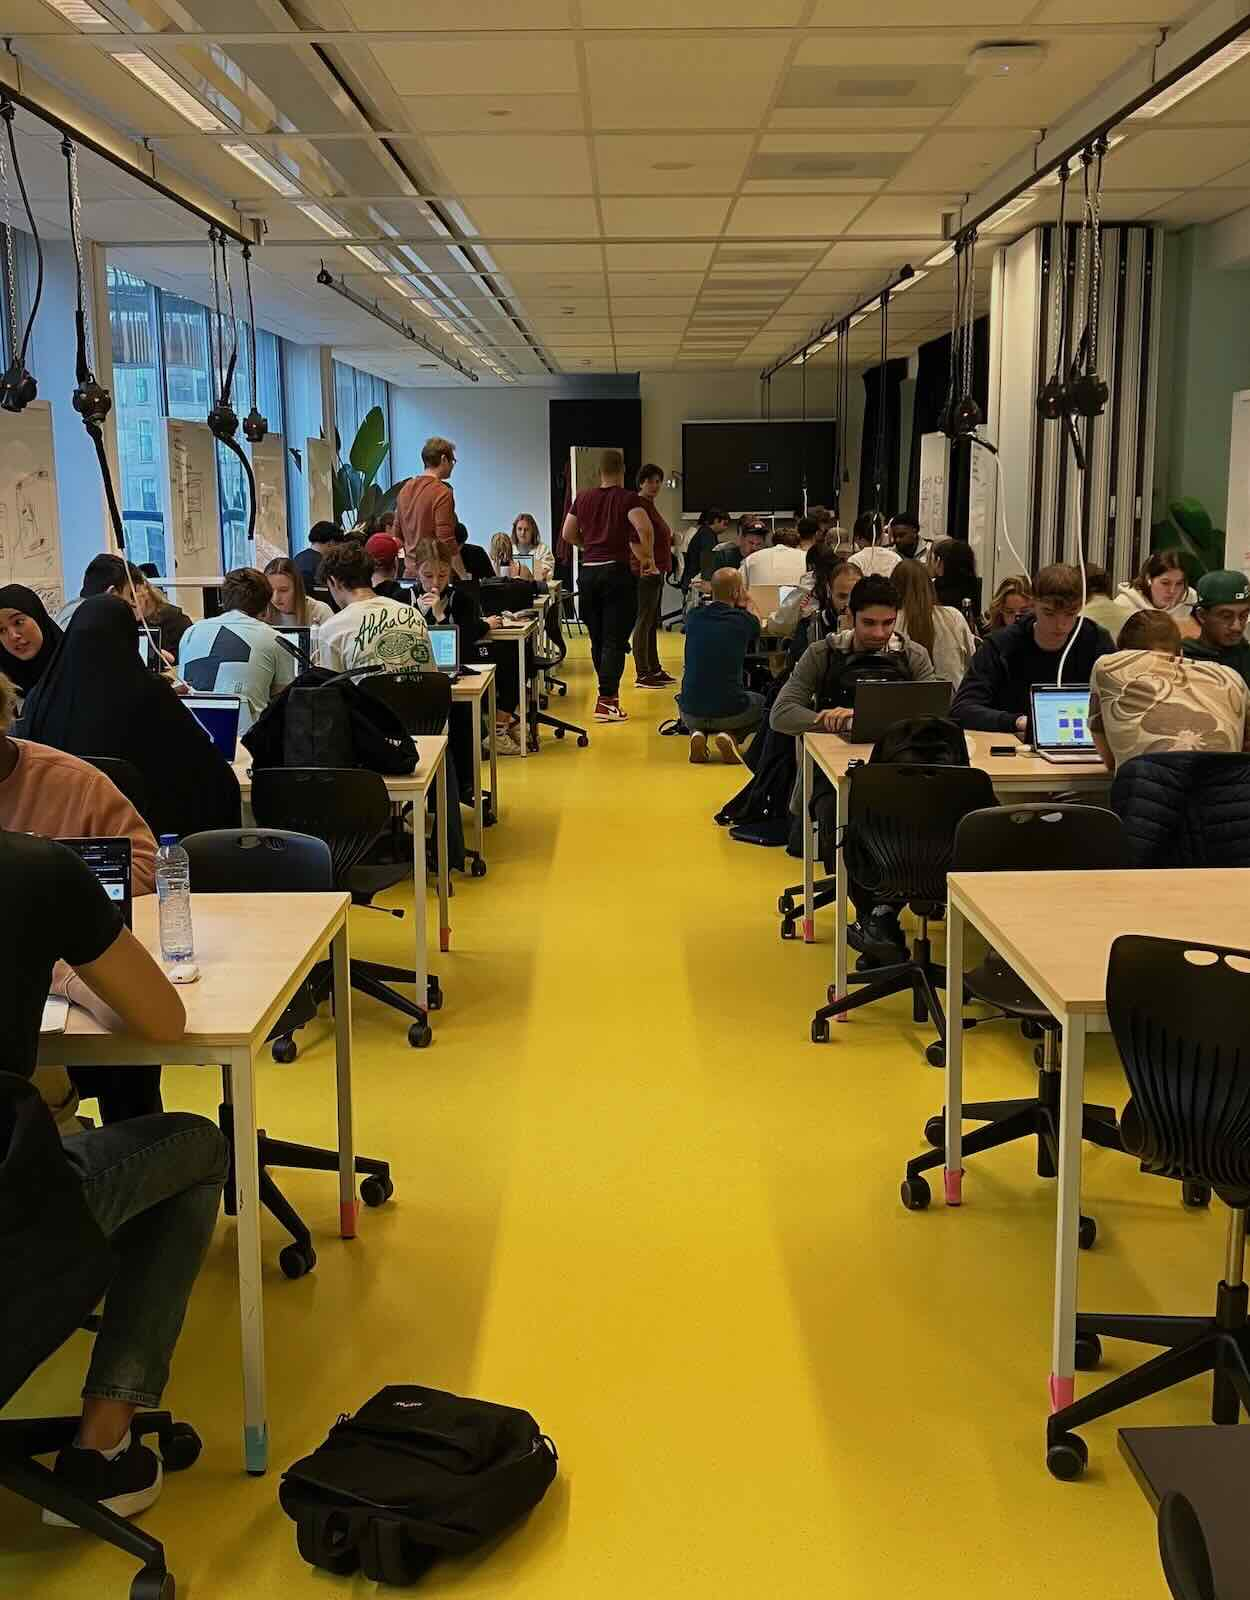
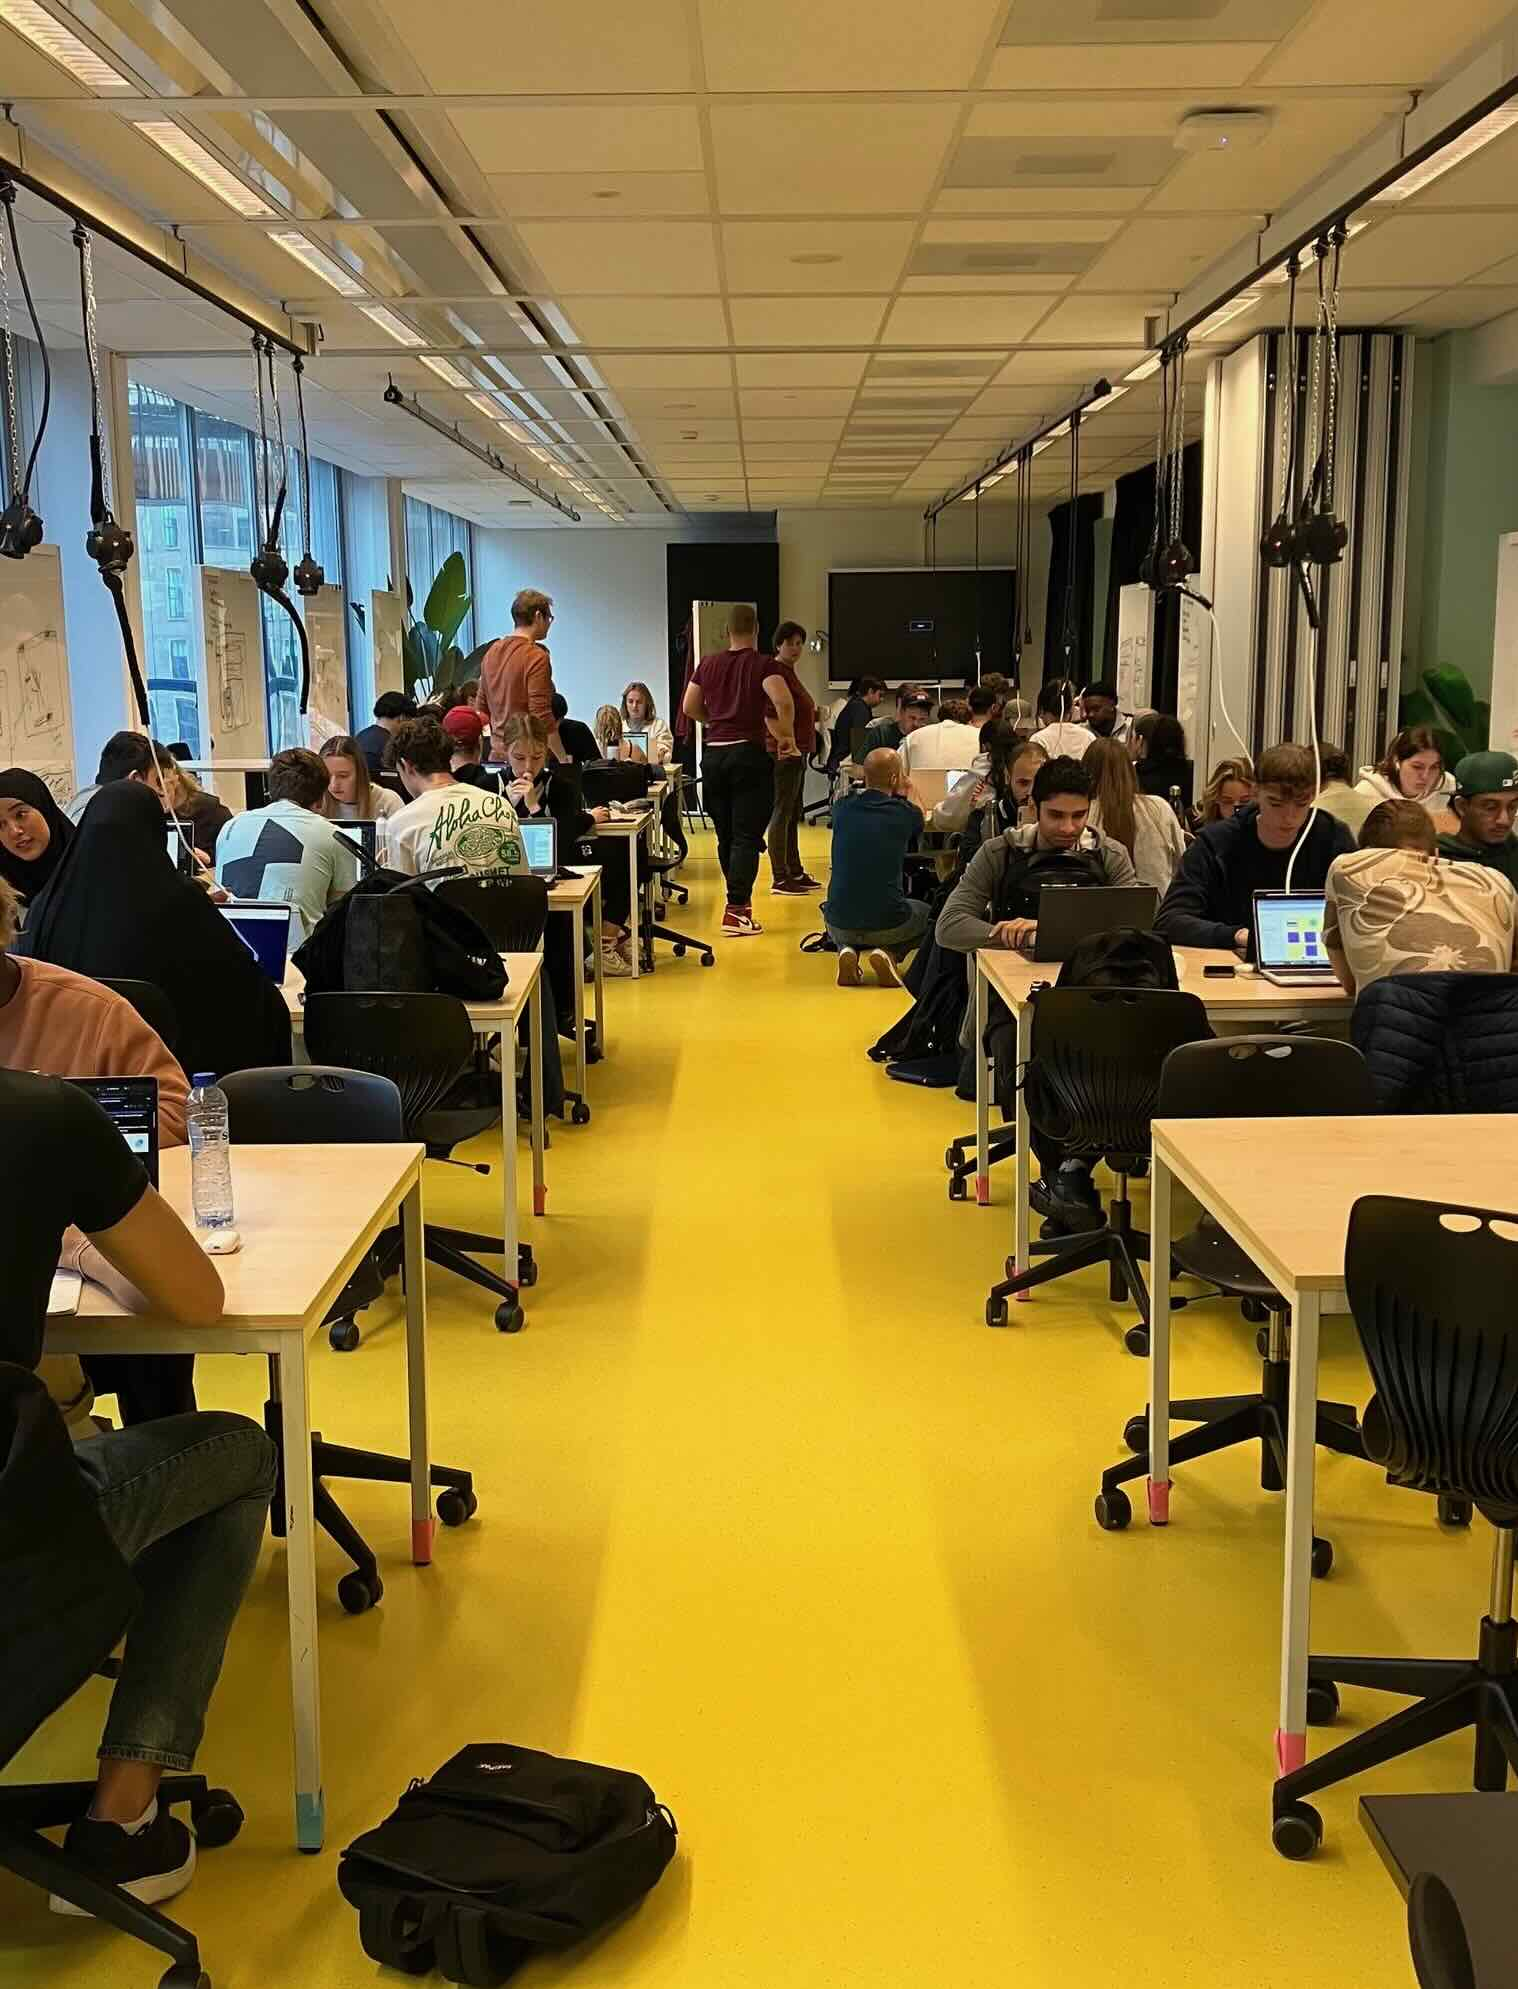
teksten update en beeldmateriaal

diff --git a/index.html b/index.html
@@ -253,7 +253,7 @@
             Enthousiast geworden?
           </p>
           <div class="button-row">
-            <a class="button is-accent-2 is-full-color"
+            <a class="button is-accent-3 is-full-color"
               href="mailto:info-fdnd@hva.nl?subject=Ik%20wil%20graag%20een%20maandag,%20woensdag%20of%20vrijdag%20meelopen">
               <span>
                 Loop een ochtend met ons mee
@@ -277,14 +277,14 @@
     <!-- AANSLUITING OP DE PRAKTIJK -->
     <section id="aansluiting-praktijk" class="image-with-text is-reversed">
       <figure class="image-container" style="--ratio: 426/630">
-        <img src="./assets/img/weloveweb.jpg"
-          alt="Simon Riisnæs Dagfinrud staat voor een scherm een talk over Computational Design te geven" />
+        <img src="./assets/img/review-design-challenge.jpg"
+          alt="Studenten en docenten werken samen in de studio" />
         <figcaption class="font-semibold">
           <span class="caps small-body">
-            We ❤ web
+            Code review
           </span>
           <span class="medium-body">
-            Simon Riisnæs Dagfinrud’s talk over Computational Design </span>
+            Studenten krijgen een code review bij de Voorhoede</span>
         </figcaption>
       </figure>
 
@@ -301,9 +301,12 @@
             wij direct samen met agencies en bedrijven waar jij straks misschien gaat werken.
           </p>
           <p class="medium-body">
-            Eens per sprint nodigen wij een gastspreker uit, experts in hun vakgebied zoals Kilian Valkhof, Vasilis van
-            Gemert, Valerie Fuchs, Cassie Evans en vele anderen.
+            Het programma is ingedeeld in 4 semester. In het eerste semester leer je alles (!) over HTML, CSS, JS, responsive design, animatie en toegankelijkheid. 
+            In het tweede semester leer je werken met een database, dit doen we met NodeJS, Liquid en een headless CMS zoals Directus. 
+            In het jaar 2 leer je frameworks en professional tooling zoals Github, werken met een component library en AI. 
+            Zo ben je goed voorbereid als je stage gaat lopen in het laatste half jaar. 
           </p>
+          <!--
           <p class="medium-body">
             Wil jij ook eens een gastcollege geven?
           </p>
@@ -315,6 +318,7 @@
               </span>
             </a>
           </div>
+        -->
         </div>
       </div>
     </section>
@@ -346,7 +350,7 @@
             De sfeer is ontspannen. Kom vooral langs om kennis te maken, of kijk een beetje voor de vibe 
           </p>
           <div class="button-row">
-            <a class="button is-accent-2 is-full-color"
+            <a class="button is-accent-3 is-full-color"
               href="https://www.hva.nl/studeren/studiekeuze/open-dagen">
               <span>
                 Meld je aan voor de open dag
@@ -455,12 +459,12 @@
 
     <!-- STUDIOMODEL -->    
     <section id="studio-model" class="image-with-text is-reversed">
-      <figure class="image-container" style="--ratio: 426/630">
+      <figure class="image-container" style="--ratio: 720/510">
         <img src="./assets/img/studio1.jpg"
           alt="In de studio van FDND werken studenten samen en helpen zij elkaar" />
         <figcaption class="font-semibold">
           <span class="medium-body">
-            Eerstejaars werken aan hun opdracht in de studio van FDND
+            Studenten werken onder begeleiding van experts uit het vakgebied
           </span>
         </figcaption>
       </figure>
@@ -588,6 +592,27 @@
             </p>
           </div>
         </details>
+
+        <details>
+          <summary class="small-heading">
+            Hoe gaan jullie om met AI?
+          </summary>
+          <div class="p">
+            <p class="medium-body">
+              In het bedrijfsleven speelt AI een steeds belangrijkere rol. 
+              Bij FDND leer je in het derde semester hoe je AI op een verantwoorde manier kunt inzetten, zodat je goed voorbereid bent op je stage en daarna. 
+            </p>
+            <p class="medium-body">
+              Tijdens het eerste jaar focussen we op coderen zonder AI. 
+              Deze aanpak helpt je om te beoordelen of code van goede kwaliteit is.
+            </p>
+            <p class="medium-body">
+              Met deze vaardigheden ben je een waardevolle aanwinst voor bedrijven. 
+              Je kunt niet alleen code schrijven, maar ook begrijpen en evalueren.
+            </p>
+          </div>
+        </details>
+
         <details>
           <summary class="small-heading">
             Wat kan je worden na je diploma?
